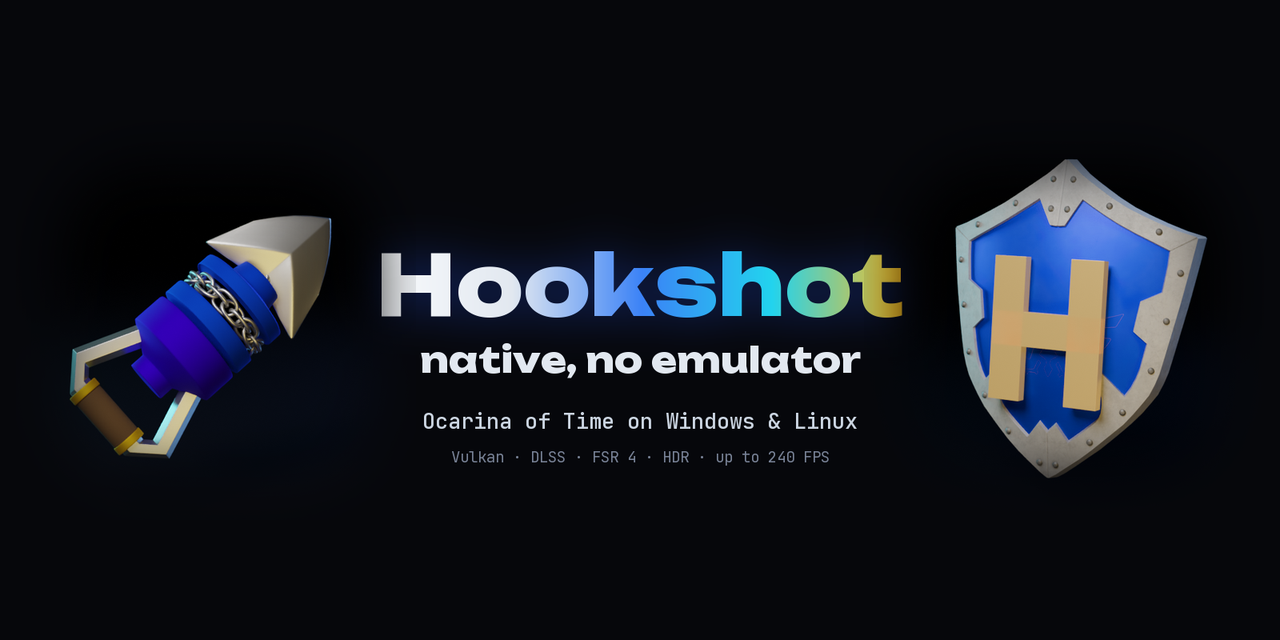
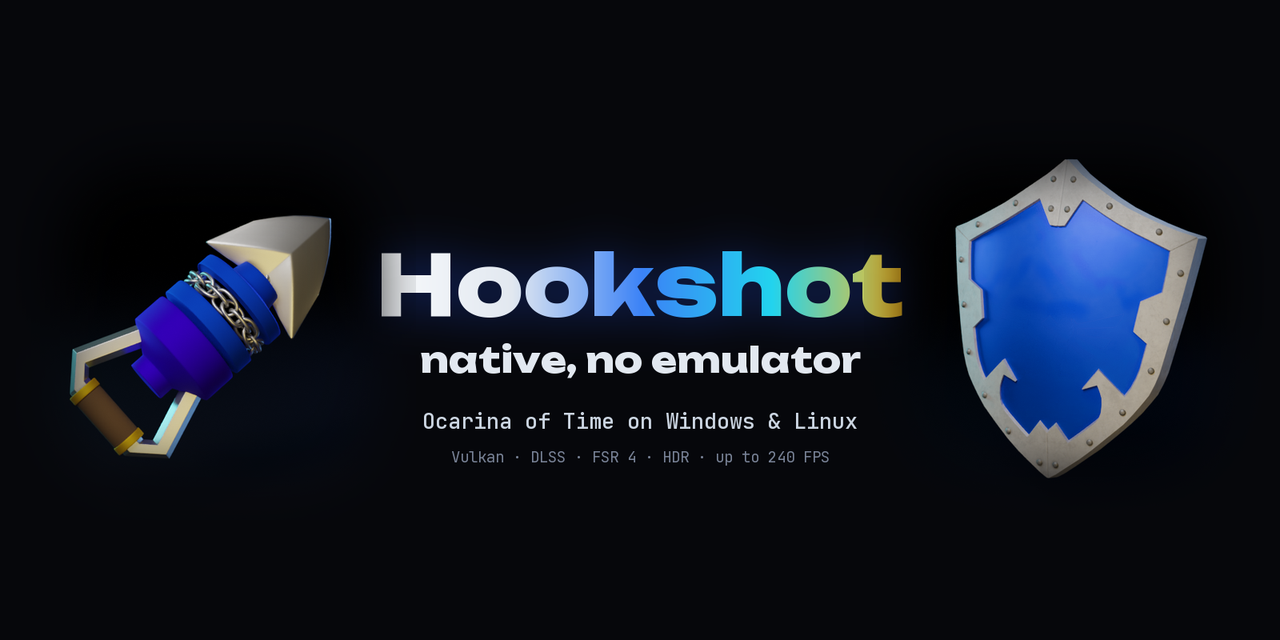
docs(readme): the header's shield is blank
No letter and no crest: the crest's mesh is left out and its bird painted out of the face's texture, soft edges too.

Changed region(s): [[0.75, 0.375, 0.875, 0.6875]]

diff --git a/scripts/render_emblem.py b/scripts/render_emblem.py
@@ -111,8 +111,8 @@ else:
     thin = min(range(3), key=lambda i: dims[i])
     root.rotation_euler = (math.radians(90), 0, 0) if thin == 2 else (0, 0, math.radians(90)) if thin == 0 else (0, 0, 0)
     bpy.context.view_layer.update()
-    # The project's own letter in the crest's place: the crest (and the three triangles in it) is Nintendo's mark, so
-    # its mesh is left out of the render and a gold H stands on the face instead.
+    # A blank shield: the crest (and the three triangles in it) is Nintendo's mark, so its mesh is left out of the
+    # render and its bird is painted out of the face.
     for o in meshes:
         if any("Triforce" in (s.material.name if s.material else "") for s in o.material_slots):
             o.hide_render = True
@@ -122,7 +122,8 @@ else:
     for img in bpy.data.images:
         if "main_d" in img.name.lower():
             px = np.array(img.pixels[:], dtype=np.float32).reshape(-1, 4)
-            red = (px[:, 0] > px[:, 2] * 1.15) & (px[:, 0] > 0.2)
+            # (red and the purple of its soft edge: more red than green, and not the face's near-pure blue)
+            red = (px[:, 0] > px[:, 2] * 0.45) & (px[:, 0] > px[:, 1] * 1.2) & (px[:, 0] > 0.12)
             blue = (px[:, 2] > px[:, 0] * 1.6) & (px[:, 2] > 0.3)
             if red.any() and blue.any():
                 px[red, :3] = np.median(px[blue, :3], axis=0)
@@ -135,29 +136,6 @@ else:
             for link in list(mat.node_tree.links):
                 if link.to_socket.name == "Normal" and link.to_node.type == "BSDF_PRINCIPLED":
                     mat.node_tree.links.remove(link)
-    shown = [o for o in meshes if not o.hide_render]
-    front = min((o.matrix_world @ Vector(c)).y for o in shown for c in o.bound_box)
-    gold = bpy.data.materials.new("letter")
-    gold.use_nodes = True
-    gb = next(n for n in gold.node_tree.nodes if n.type == "BSDF_PRINCIPLED")
-    gb.inputs["Base Color"].default_value = (0.95, 0.66, 0.16, 1)
-    gb.inputs["Metallic"].default_value = 0.55   # (all metal, it mirrored the black studio and went dark)
-    gb.inputs["Roughness"].default_value = 0.32
-    gb.inputs["Emission Color"].default_value = (0.95, 0.6, 0.12, 1)
-    gb.inputs["Emission Strength"].default_value = 0.25
-    # the H: two posts and a bar, as boxes (a font's extruded outline came out with torn faces)
-    high, wide, stroke, deep = size * 0.44, size * 0.36, size * 0.105, size * 0.035
-    for x, w, h in ((-(wide - stroke) / 2, stroke, high), ((wide - stroke) / 2, stroke, high), (0, wide, stroke)):
-        bpy.ops.mesh.primitive_cube_add(size=1, location=(x, front - deep / 2, -size * 0.03))
-        part = bpy.context.object
-        part.scale = (w, deep, h)
-        bevel = part.modifiers.new("bevel", "BEVEL")
-        bevel.width, bevel.segments = size * 0.006, 3
-        part.data.materials.append(gold)
-        bpy.context.view_layer.update()
-        m = part.matrix_world.copy()
-        part.parent = root
-        part.matrix_world = m
     START = float(os.environ.get("EMBLEM_START", "-25"))
     turner.rotation_euler = (math.radians(-8), 0, math.radians(START))
 

diff --git a/scripts/make_hero.py b/scripts/make_hero.py
@@ -156,9 +156,9 @@ def main():
         # animated WebP, not GIF: a GIF's 256 colours band the wordmark's gradient and the renders' shading
         frames = [compose(base, Image.open(h), Image.open(s), mask).resize((1200, 450), Image.LANCZOS)
                   for h, s in zip(hooks, shields)]
-        out = BRAND / "banner.webp"
+        out = BRAND / "hero-banner.webp"
         frames[0].save(out, save_all=True, append_images=frames[1:], duration=a.frame_ms, loop=0, quality=86, method=6)
-        print("wrote banner.webp: %d frames, %.0f KB" % (len(frames), out.stat().st_size / 1024))
+        print("wrote hero-banner.webp: %d frames, %.0f KB" % (len(frames), out.stat().st_size / 1024))
 
 
 if __name__ == "__main__":

diff --git a/assets/brand/README.md b/assets/brand/README.md
@@ -4,7 +4,7 @@
 
 Two objects from the game the project runs, turning either side of the name: the Hookshot on the left, the Hyrule
 shield on the right. They are renders of fan-made 3D models, lit in one black studio with blue, cyan and gold rim
-lights; nothing is taken from the game's own files, and the shield's crest is replaced by the project's H.
+lights; nothing is taken from the game's own files, and the shield is shown without its crest.
 
 | Object | Model | Credit |
 |---|---|---|
@@ -15,9 +15,8 @@ The models are not in this repository: only the pictures rendered from them are.
 licence here (neither download carried a licence file). The Hookshot, the shield and its crest are Nintendo's designs;
 this is fan art for an unofficial project.
 
-The shield does not carry its crest: `scripts/render_emblem.py` leaves the crest's mesh out, paints its bird out of
-the face's texture (in memory; the download is not changed) and stands a gold **H**, the project's letter, in its
-place.
+The shield is blank: `scripts/render_emblem.py` leaves the crest's mesh out and paints its bird out of the face's
+texture (in memory; the download is not changed).
 
 Rendered on 2026-11-14 in Blender 4.5 (Cycles, OptiX, RTX 5090), 96 samples, 600×600, 40 frames each:
 
@@ -30,7 +29,7 @@ Rendered on 2026-11-14 in Blender 4.5 (Cycles, OptiX, RTX 5090), 96 samples, 600
 | File | Size | Use |
 |---|---|---|
 | `emblem_hookshot.png`, `emblem_shield.png` | 600×600 | The first frame of each turn: what the still banner is built from |
-| `banner.webp` | 1200×450, 40 frames, animated WebP | The README header: both objects turn once, and loop |
+| `hero-banner.webp` | 1200×450, 40 frames, animated WebP | The README header: both objects turn once, and loop |
 | `hero.png` | 1600×600, rounded corners | The still banner |
 | `social-preview.png` | 1280×640 | GitHub's social preview (uploaded by hand in Settings) |
 | `icon.png` | 512×512, rounded square | Listings and avatars |

diff --git a/readme.md b/readme.md
@@ -1,5 +1,5 @@
 <p align="center">
-  <img src="assets/brand/banner.webp" alt="Hookshot: Ocarina of Time running natively on Windows and Linux, with no emulator" width="800">
+  <img src="assets/brand/hero-banner.webp" alt="Hookshot: Ocarina of Time running natively on Windows and Linux, with no emulator" width="800">
 </p>
 
 <p align="center">
